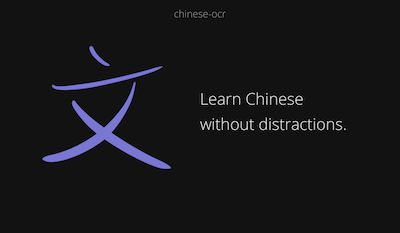
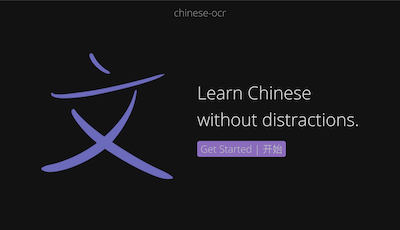
Update demos, tech stack, and features

diff --git a/README.md b/README.md
@@ -3,6 +3,8 @@ A web-based flashcard app directed at language learning, particularly Chinese. C
 
 
 ## Demo
+Play with the partially working [demo](https://chinese-ocr-274418.firebaseapp.com/) while still in development
+
 ### Landing Page
 
 ![Landing Page](demos/landing-page.png)
@@ -10,11 +12,12 @@ A web-based flashcard app directed at language learning, particularly Chinese. C
 ## Built With
 * [TensorFlow](https://www.tensorflow.org)
 * [Vue.js](https://vuejs.org)
+* [Firebase](https://firebase.google.com/)
 
 ## Features
 * [x] Chinese handwriting recognition
+* [x] Individual user accounts
 * [ ] Spaced repetition flashcards
-* [ ] User management
 * [ ] Support for more languages
 
 ## Installation
